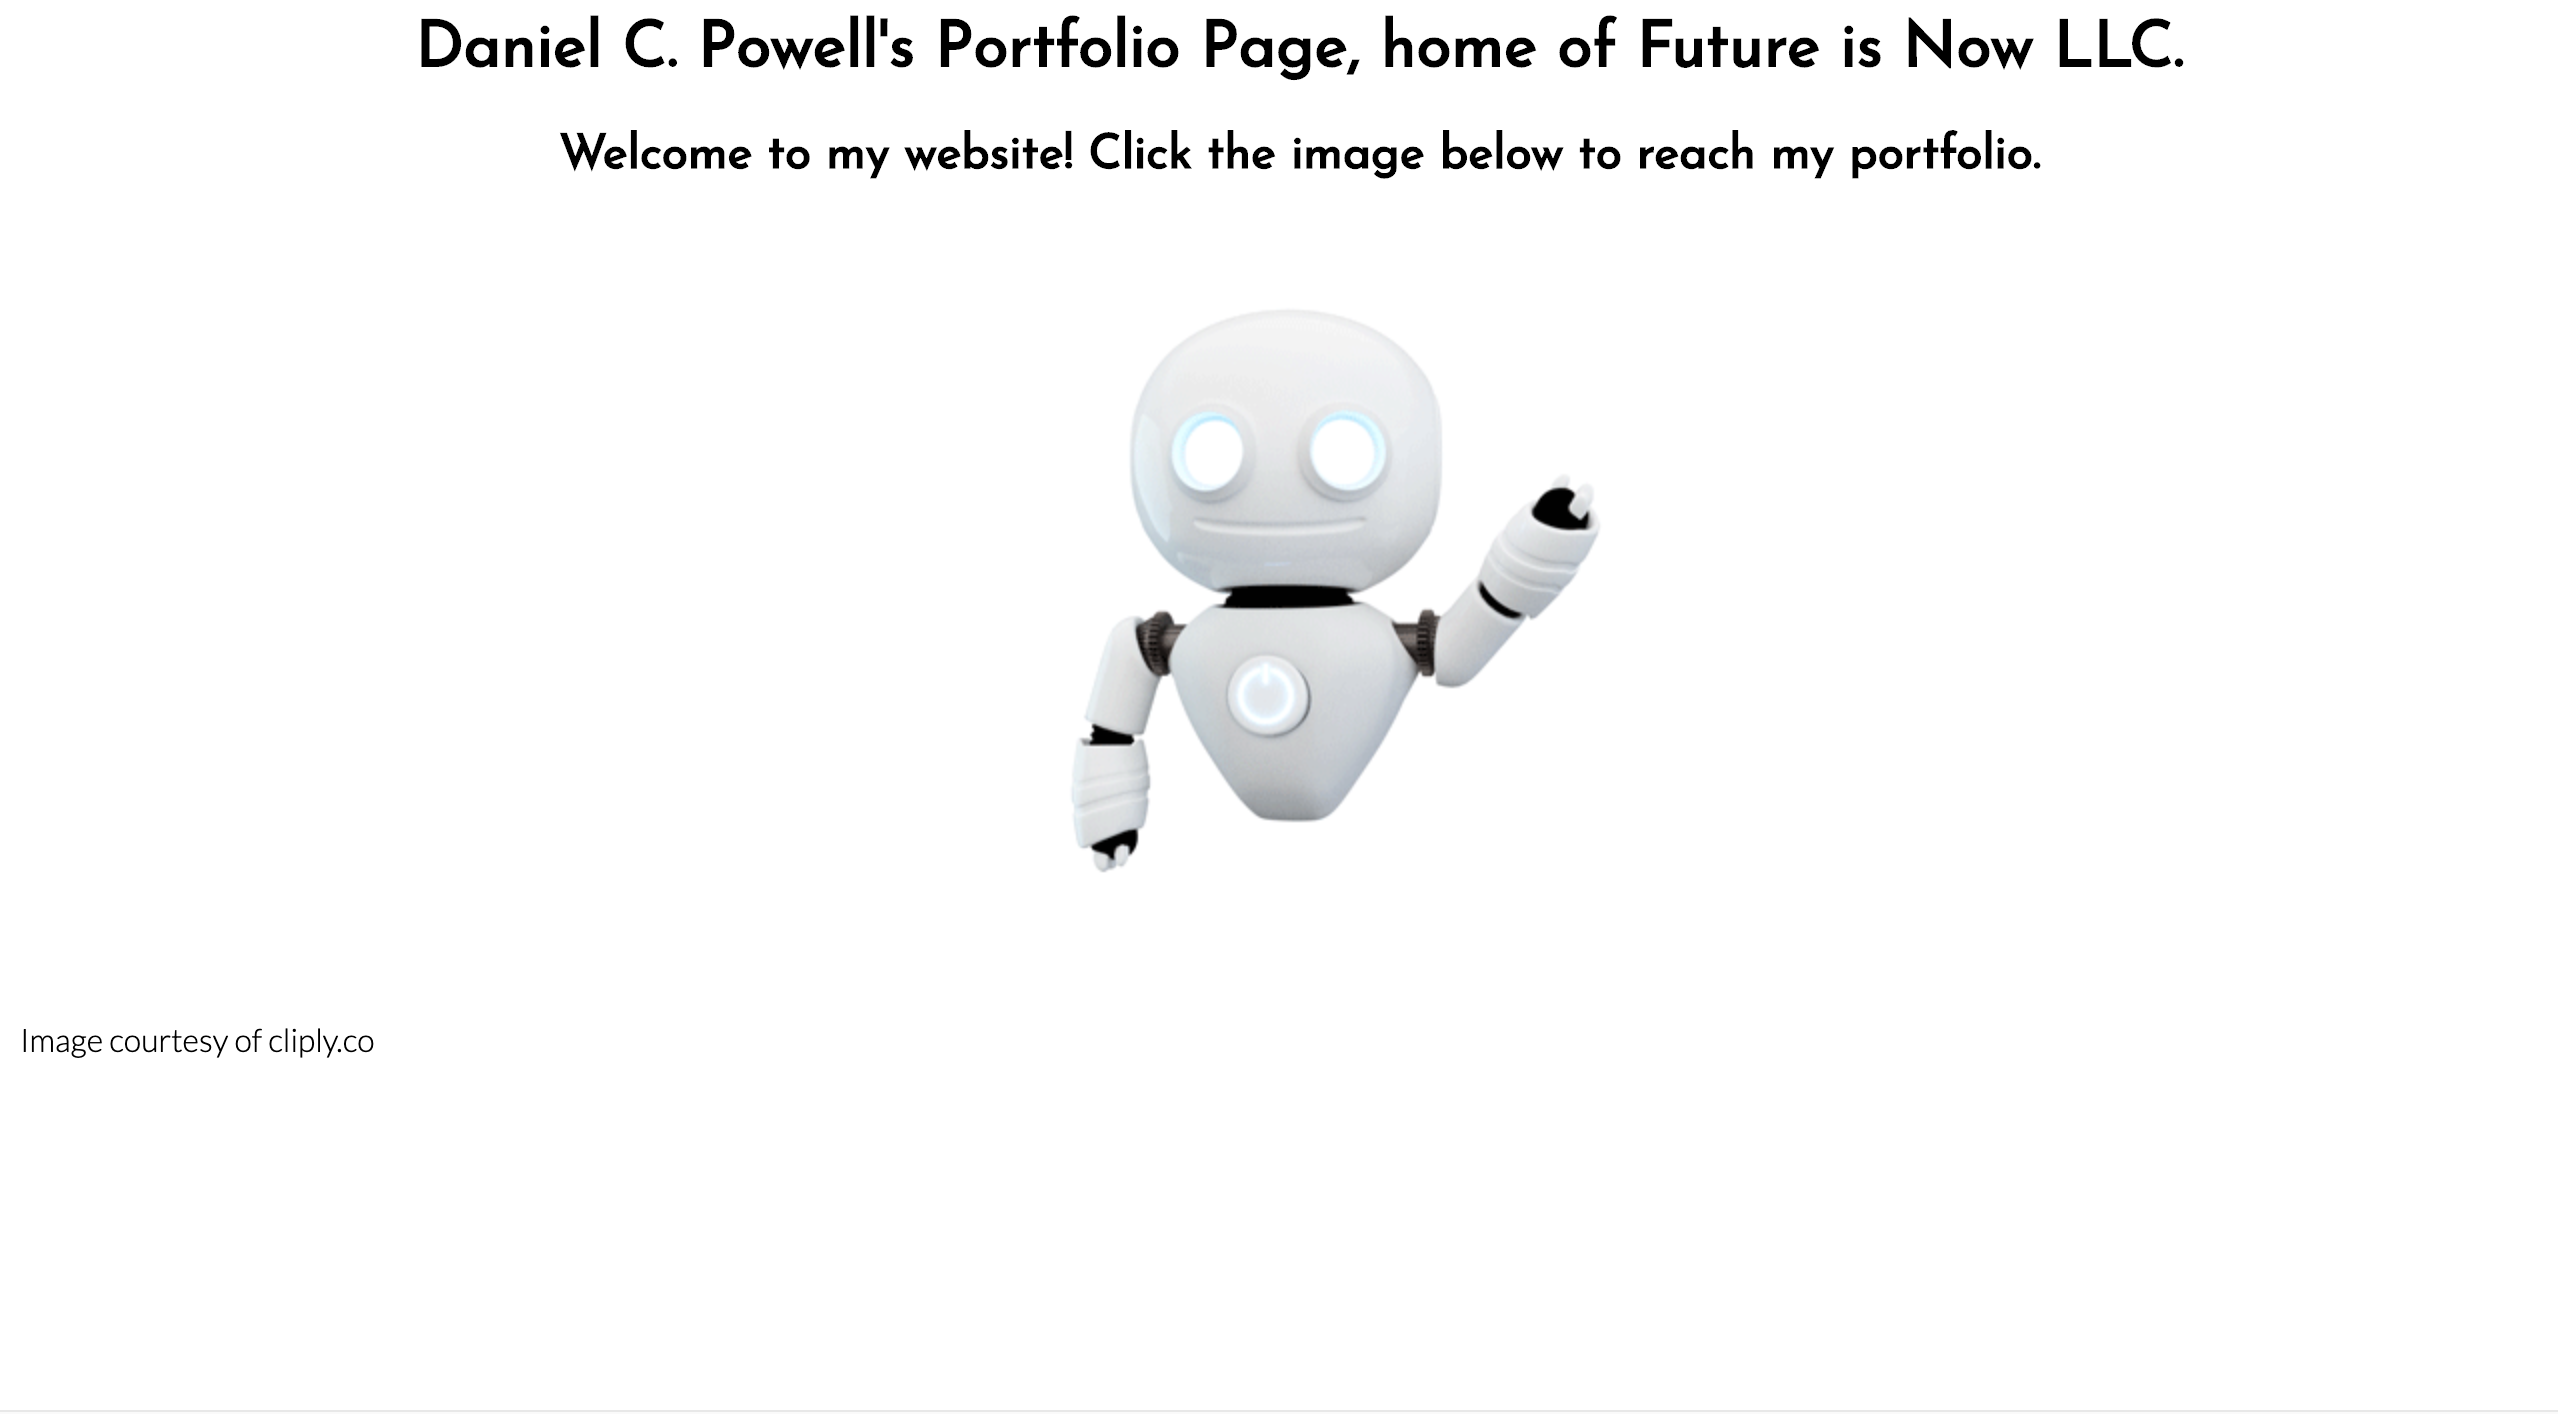
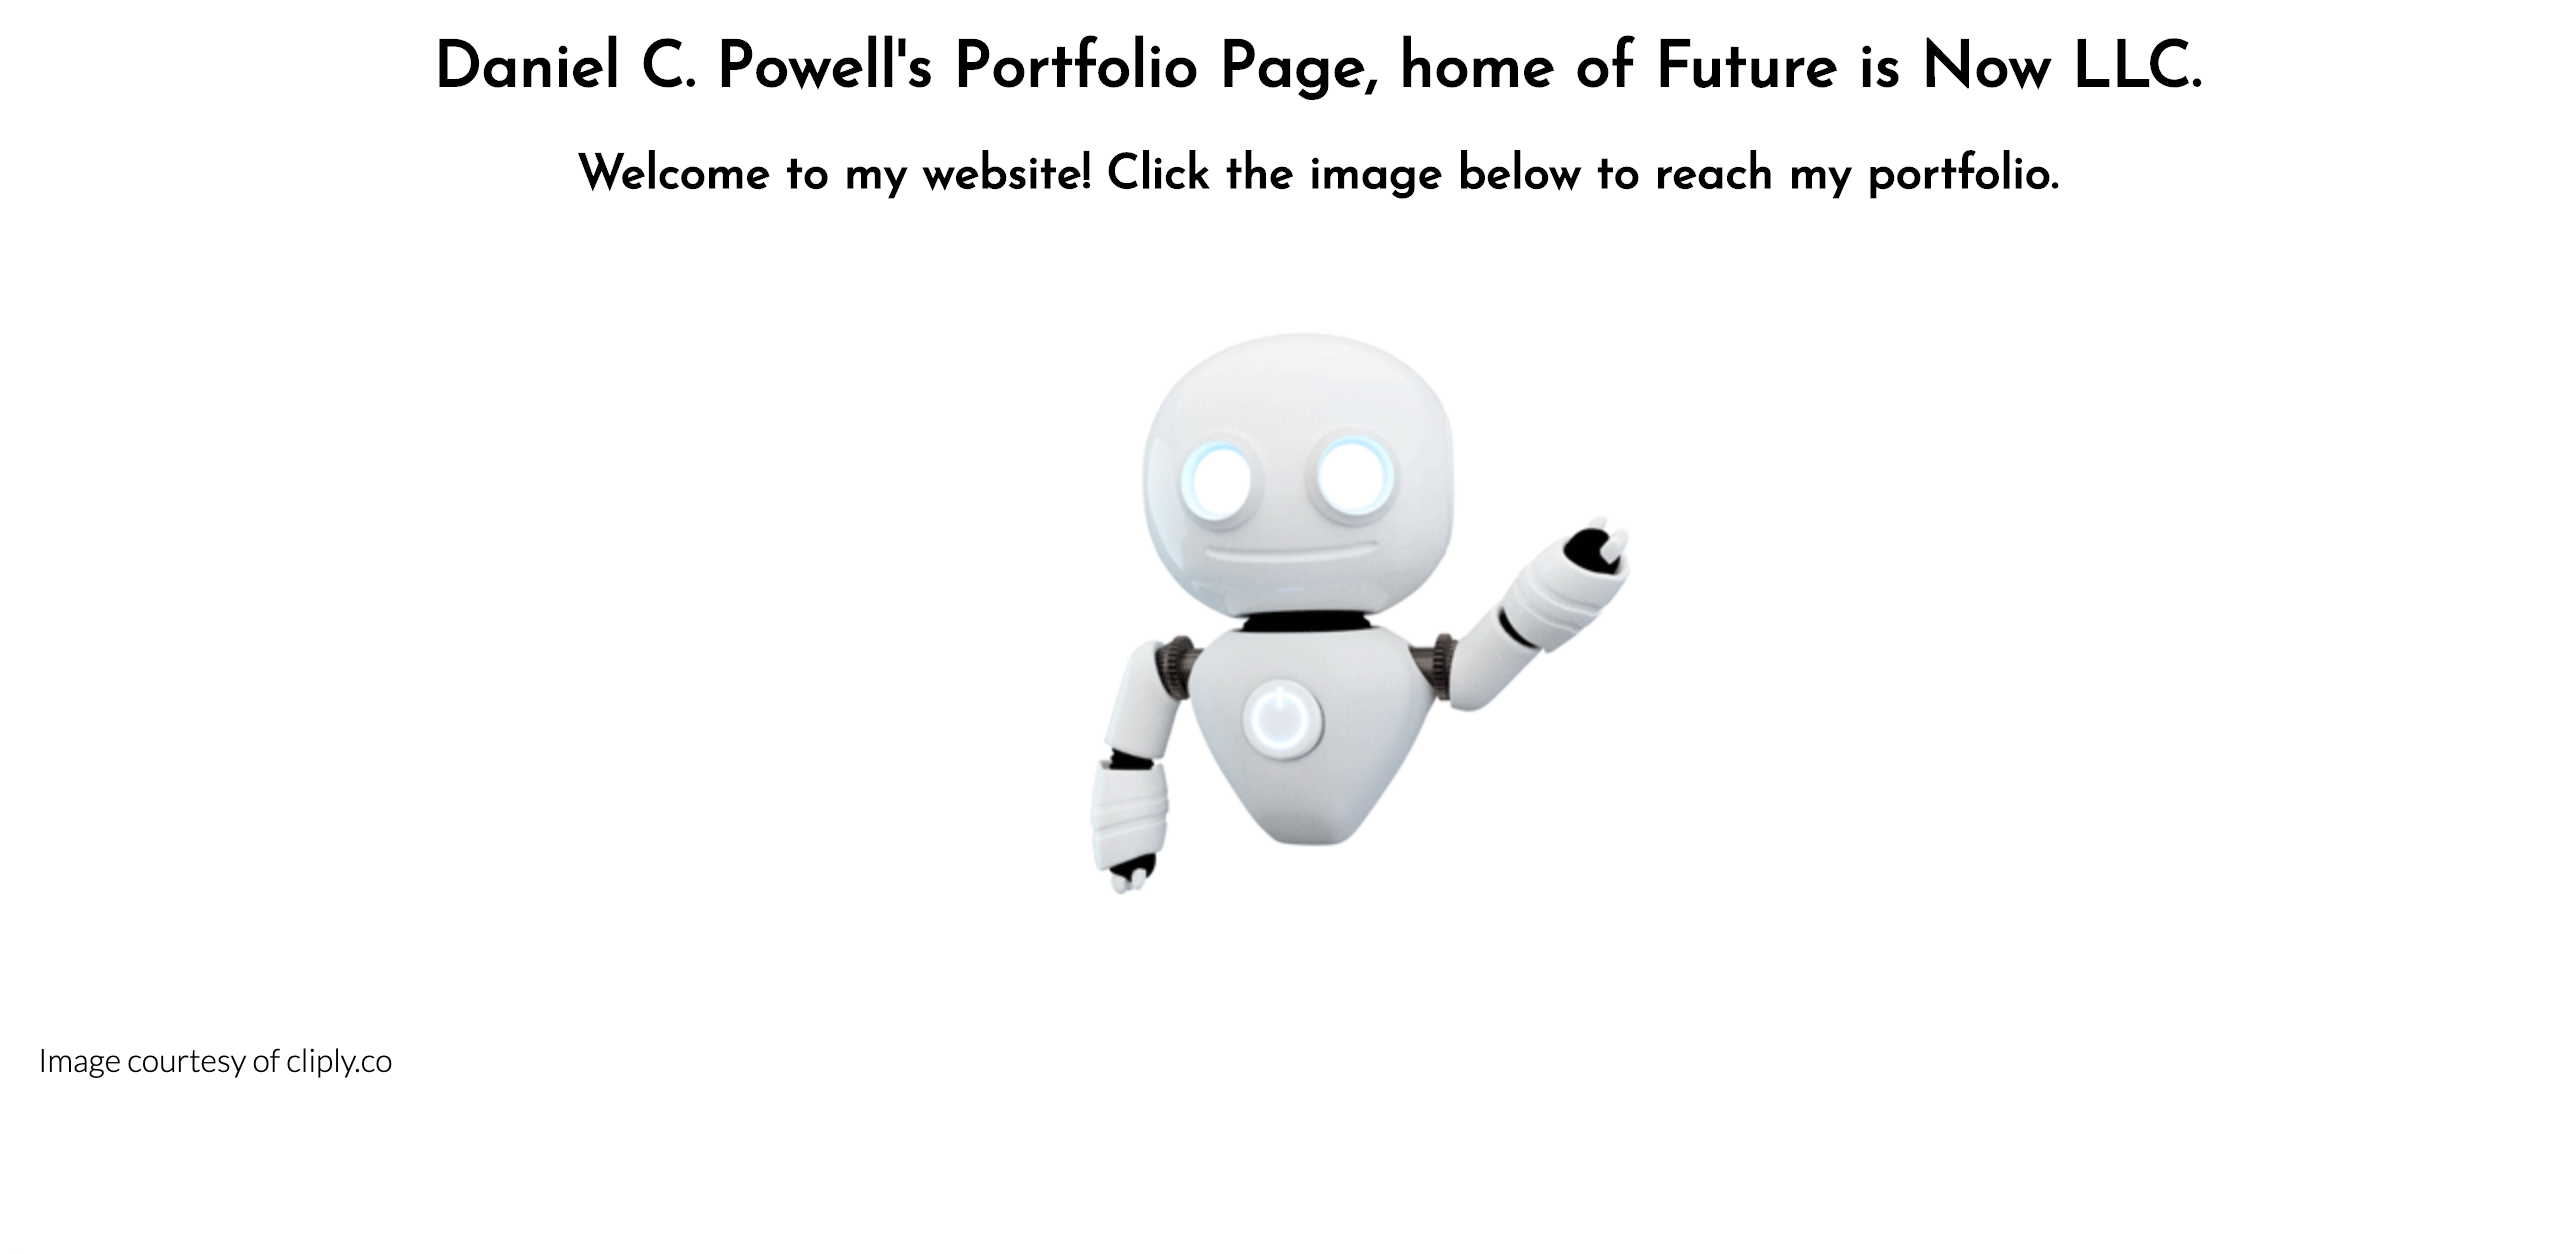
Changed image for Lesson-05

diff --git a/main-page.html b/main-page.html
@@ -59,7 +59,7 @@
             <a href="https://dcp6.github.io/Portfolio/">
                <h4>Lesson 05 Assignment</h4>
             </a>
-            <a href="https://dcp6.github.io/Portfolio/"><img class ="lesson-img" src="images/robot.gif" alt="its a waving robot"></a>
+            <a href="https://dcp6.github.io/Portfolio/"><img class ="lesson-img" src="images/lesson-05-assignment.png" alt="its a waving robot"></a>
          </section>
          <!--row 5-->
          <section class="row">
